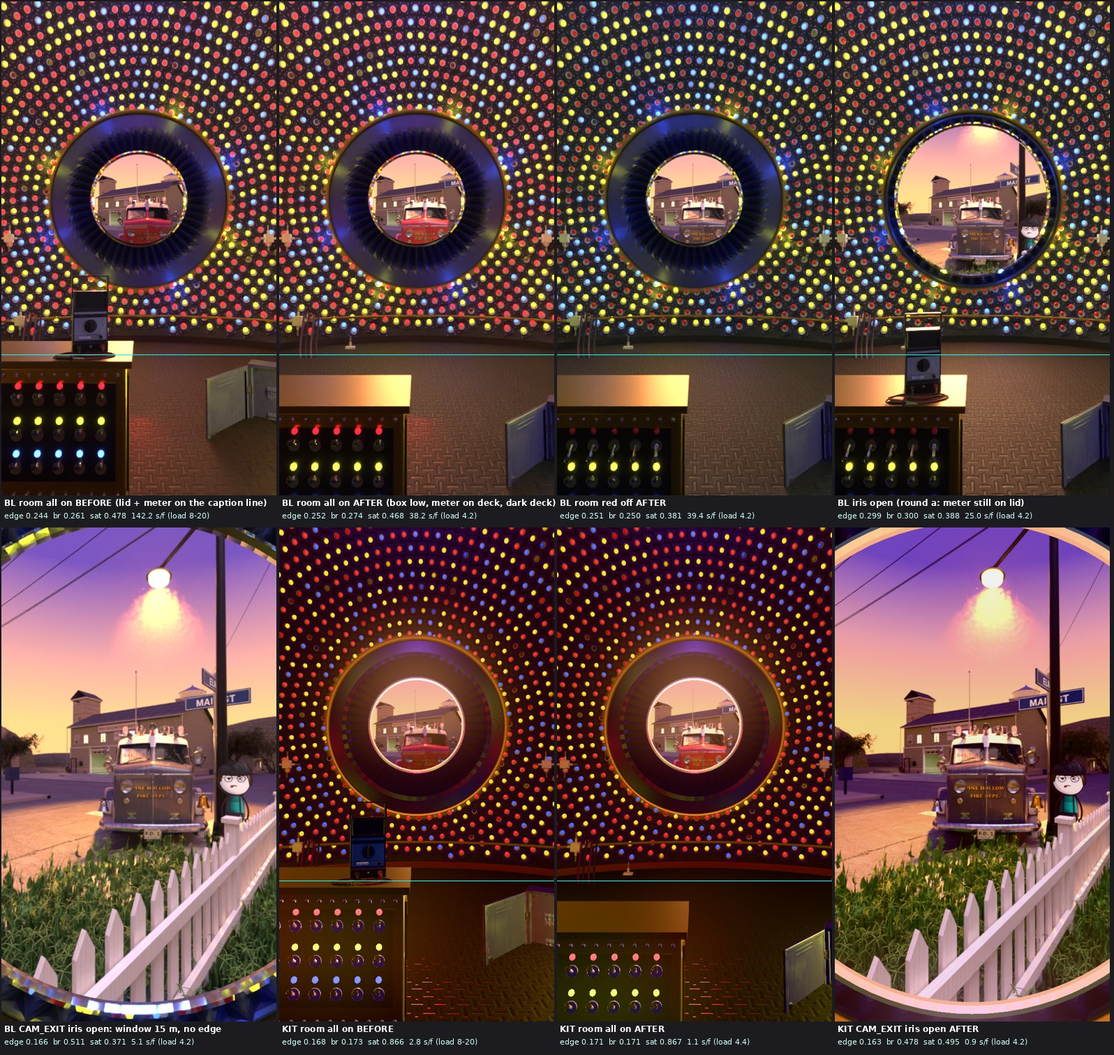
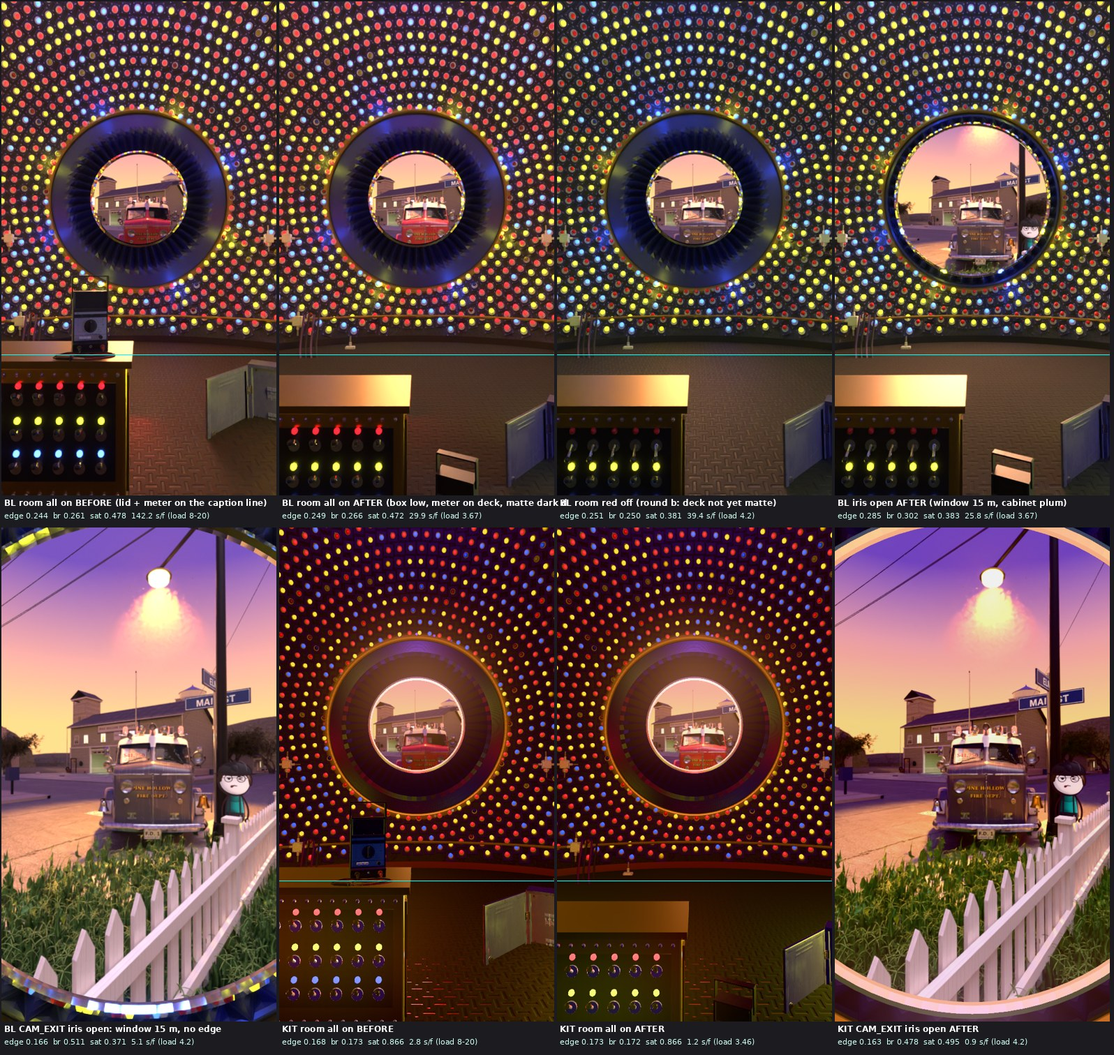
Yellow fire trucks: set fix round 2 (Dallas, town, lamp room, map), lessons
Claude-Session: https://claude.ai/code/session_01DrjR3Ltb34YxYG9MboPX6s

diff --git a/episodes/yellow-fire-trucks/sets/map/scripts/tex_map.py b/episodes/yellow-fire-trucks/sets/map/scripts/tex_map.py
@@ -13,9 +13,9 @@ SERIF = '/usr/share/fonts/truetype/liberation/LiberationSerif-Italic.ttf'; BOLD 
 STATES = G.load_states(os.path.join(A, 'us-atlas', 'states-10m.json'))
 PAPER = Image.open(os.path.join(A, 'acg', 'Paper001', 'Paper001_2K-JPG_Color.jpg')).convert('L')
 # palette: no red, no yellow, no teal on a set (LOOK_BIBLE). Water cornflower-pale, land pastel 1970s tints, highways navy.
-CREAM = (241, 230, 204); WATER = (160, 196, 246); WATER_LINE = (140, 170, 222); GREYLAND = (226, 221, 207)
-# FIX 2: tints about twice as strong (Blender saturation measured 0.19-0.26 under the bleached noon; the floor is 0.30). Still no red, yellow or teal.
-TINTS = [(252, 200, 168), (200, 232, 170), (244, 190, 226), (246, 230, 186), (192, 214, 250), (246, 214, 166)]
+CREAM = (240, 226, 194); WATER = (138, 182, 246); WATER_LINE = (140, 170, 222); GREYLAND = (226, 221, 207)
+# FIX 2: tints about three times as strong (round b; round a x2 gave .22-.29) (Blender saturation measured 0.19-0.26 under the bleached noon; the floor is 0.30). Still no red, yellow or teal.
+TINTS = [(250, 178, 138), (178, 228, 140), (240, 164, 214), (246, 220, 158), (166, 198, 252), (246, 198, 136)]
 NAVY = (39, 54, 90); INK = (31, 35, 56); BROWN = (132, 86, 58); ROAD = (150, 138, 126); PLUM = (122, 104, 140); RIVER = (96, 136, 214); PENCIL = (88, 86, 92)
 COFFEE = (150, 104, 66)
 STATIONS = G.stations(); SNAMES = [s[0] for s in STATIONS]
@@ -264,12 +264,13 @@ for k in range(1, 12): dd.line([(0, k * 21), (256, k * 21)], fill=(196, 194, 188
 for k in range(5): dd.rectangle([18 + k * 46, 66, 50 + k * 46, 82], fill=(70, 86, 120), outline=(39, 54, 90), width=2)
 dd.rectangle([0, 0, 255, 255], outline=NAVY, width=7); dd.rectangle([0, 244, 255, 255], fill=(60, 58, 60)); dd.rectangle([110, 226, 146, 234], fill=(150, 150, 150))
 dr.save(os.path.join(OUT, 'door.png'))
-wl = Image.new('RGB', (512, 512), (234, 216, 172)); dw = ImageDraw.Draw(wl); r2 = random.Random(2)
+# FIX 2 round c: card walls warmer tan (234,216,172 -> 236,198,146) and roofs warm slate: the closes are mostly station (Blender saturation < .30)
+wl = Image.new('RGB', (512, 512), (236, 198, 146)); dw = ImageDraw.Draw(wl); r2 = random.Random(2)
 for j in range(32):
     for i in range(9):
-        x0 = i * 60 - (30 if j % 2 else 0); v = r2.randint(-10, 8); dw.rectangle([x0 + 2, j * 16 + 2, x0 + 58, j * 16 + 14], fill=(234 + v, 216 + v, 172 + v))
+        x0 = i * 60 - (30 if j % 2 else 0); v = r2.randint(-10, 8); dw.rectangle([x0 + 2, j * 16 + 2, x0 + 58, j * 16 + 14], fill=(236 + v, 198 + v, 146 + v))
 wl.filter(ImageFilter.GaussianBlur(.6)).save(os.path.join(OUT, 'wall.png'))
-rf = Image.fromarray((np.random.RandomState(9).rand(256, 256, 1) * 34 + np.array([150, 144, 132])).clip(0, 255).astype(np.uint8)); rf.save(os.path.join(OUT, 'roof.png'))
+rf = Image.fromarray((np.random.RandomState(9).rand(256, 256, 1) * 34 + np.array([150, 128, 108])).clip(0, 255).astype(np.uint8)); rf.save(os.path.join(OUT, 'roof.png'))
 json.dump(dict(insets=INS, cells=CELLS, stations=[[c, round(x, 3), round(y, 3)] for c, x, y in STATIONS], cities={c: [round(v[0], 3), round(v[1], 3)] for c, v in CITYXY.items()}),
           open(os.path.join(OUT, 'tex_meta.json'), 'w'), indent=1)
 print('TEX_END')

diff --git a/episodes/yellow-fire-trucks/sets/map/scripts/bl_map_lite.py b/episodes/yellow-fire-trucks/sets/map/scripts/bl_map_lite.py
@@ -58,7 +58,13 @@ for o in ms: o.select_set(True)
 bpy.context.view_layer.objects.active = ms[0]
 for o in ms: o.matrix_world = o.matrix_world.copy()
 bpy.ops.object.parent_clear(type='CLEAR_KEEP_TRANSFORM'); bpy.ops.object.join(); j = bpy.context.object; j.name = 'tiny_truck'
-m = j.modifiers.new('dec', 'DECIMATE'); m.ratio = 4000 / max(1, tris(j.data)); bpy.ops.object.modifier_apply(modifier='dec')
+# FIX 2: assets_prod's truck_light grew (2026-11-21 02:15) and one COLLAPSE pass to 4000 tris shattered the tiny truck (kit bays showed shards).
+# Now: planar dissolve (4 deg) first, then a gentle collapse only above 6000 tris. Guard: TINY_DEC line in the log (before -> after).
+import math
+n0 = tris(j.data); m = j.modifiers.new('pl', 'DECIMATE'); m.decimate_type = 'DISSOLVE'; m.angle_limit = math.radians(4); bpy.ops.object.modifier_apply(modifier='pl')
+if tris(j.data) > 6000:
+    m = j.modifiers.new('dec', 'DECIMATE'); m.ratio = max(.05, 6000 / tris(j.data)); m.use_collapse_triangulate = True; bpy.ops.object.modifier_apply(modifier='dec')
+print('TINY_DEC', n0, '->', tris(j.data))
 for o in list(bpy.data.objects):
     if o != j: bpy.data.objects.remove(o)
 j.select_set(True)

diff --git a/episodes/yellow-fire-trucks/sets/lamproom/STATE.md b/episodes/yellow-fire-trucks/sets/lamproom/STATE.md
@@ -1,11 +1,10 @@
 # STATE: PLACE D, THE LAMP ROOM BEHIND THE EYE (set-builder, signature round 1, 2026-11-21). Sheet: LAMPROOM_SHEET.jpg (8 tiles, looked at).
 ## NOT done / still weak (seen in the sheet)
+- (round 1 items fixed in FIX 2 removed: caption band, cabinet tint, window size.)
 - No Rick frame in the repo (no refs/ for this film): no side-by-side, no close-up 90 % detail pair. Numbers only.
 - Window = a flat picture (town.blend rendered from the kerb, 640 px) 6 m behind the iris: parallax only from the iris/camera move; the exit flight needs the
   camera-director to blend into the real town park after exit_point. The toy in the hero's fist does not go grey (card art, cast dept).
 - Not checked in a moving clip: the wave timing (4 posed steps), the flicker, the iris ease. Single frames only.
-- Captions band (71.5 %) falls on the catwalk/relay-box top line, not on plain dark dome (lamps are bright everywhere above the deck).
-- Fuse cabinet (power_box_01) reads pale grey-green: the plum tint did not take (its base colour is not a direct texture link). Door open.
 - Kit: no environment map, so chrome/brass are softened (metalness cap); the kit room is darker and warmer than Blender; bulbs are coded spheres.
 - Air life not built (no dust motes, no mist pass); no sparks/clack on the lever drop (vfx, sound).
 - Blender preview time is high on this shared CPU: 35-142 s per 540x960 tile (load average 8-20 from other helpers).
@@ -26,16 +25,7 @@ Wave groups: red lamps by angle round the axis from top-left, clockwise as seen 
 Headlamp match: pumper headlamp glass (truck frame) centre x -3.50, y +-0.52, z 1.31, r 0.109 m. At CAM_ENTRY the entry ring fills 89 % of the frame width
 (r 0.445 of width, centred); the pupil there is r 0.103 of width. At CAM_ROOM the pupil centre is at 40 % from the top, r 0.164 (closed) / 0.271 (open) of width.
 ## Numbers (proof/numbers.json; 540x960; Blender Cycles CPU 16 spp + OIDN, Standard; kit second frame)
-| tile | s/frame | edge | colours (5-bit, >=20 px) | brightness |
-|---|---|---|---|---|
-| Blender all on | 142.2 | .244 | 1684 | .260 |
-| Blender wave 2 | 102.2 | .245 | 1635 | .246 |
-| Blender red off, truck grey | 95.2 | .245 | 1427 | .236 |
-| Blender iris open | 45.6 | .283 | 1692 | .289 |
-| Blender entry ring | 34.8 | .151 | 1107 | .239 |
-| kit all on / red off / entry | 2.8 / 1.3 / 3.0 | .168 / .165 / .101 | 1083 / 937 / 672 | .173 / .141 / .177 |
-Room tiles: edge above the 0.14 floor and Rick's ~0.087; brightness .24-.29 (LR is a dark room: no 0.31 dusk floor stated for LR; the lead decides).
-The truck in the window greys at wave >= 2 by default (grey param overrides).
+- Round 1 numbers: proof/numbers.json and LAMPROOM_SHEET.jpg (Blender 35-142 s/tile at load 8-20); FIX 2 numbers below and proof/fix2/numbers.json.
 ## LECONS (LECONS format; the lead copies into LECONS_TECHNIQUES.md)
 - 2026-11-21 A sed appended a '#' comment in the middle of the iris line and ate `iris.data.materials.append(chrome)`. Cause: REGLES 4 trap again. Fix: comment on its
   own line. Guard: `grep -n "; *#" scripts/*.py` before every render (it caught this one). Proof: the chrome lip shows in bl_irisopen.png. FERMÉ
@@ -52,3 +42,15 @@ The truck in the window greys at wave >= 2 by default (grey param overrides).
 - Camera-director: entry = push into the headlamp until its glass is 89 % of frame width, blend to CAM_ENTRY, fly forward through the ring to CAM_ROOM, exit
   forward past exit_point and blend to the park. Lead: OK that the match is headlamp rim -> entry ring (the pupil is small inside it at that moment).
 - VFX/sound: spark + relay clack per wave step. Cast: grey state of the toy in the hero card. Background-painter: nothing (no sky in this set).
+## FIX 2 (2026-11-21) - sheet FIX2_SHEET.jpg (8 tiles, cyan = caption line 71.5 %), numbers proof/fix2/numbers.json; runs fix2_run.sh (+ round c by hand, same steps)
+- NOT done: the caption band is plain and darker but not BLACK (Blender band mean .184, std .047; kit .081 / .031); the meter left the lid and now stands small
+  on the deck east of the box (reads as a dark box); red-off tile is round b (deck not yet matte). Window picture is a flat plane still (no parallax).
+  Not checked in a moving clip: the S6 travel CAM_ROOM -> (0, 6.6, .15) frame by frame (CAM_EXIT at y 3.0 = the worst point by the maths: no edge).
+- Done, seen: 1 caption band: relay box legs .26 -> .02 (lid line ~75 %), meter moved to the deck, deck tint #1d1a24 matte (rough x1.8, metal 0; metal .6
+  mirrored the lamps), cabinet scale 2.2 -> 1.8 and nearer (top below the line). Band 68-75 %: mean .250 -> .184, std .198 -> .047 (Blender).
+  2 window plane 9 -> 15 m; bl_window lens 28 -> 16.8 (= 28 x 9/15) at 1068 px, so the middle 9 m is the same view: CAM_EXIT shows no edge (tile 5, 8).
+  3 cabinet tint now takes (log CABINET_TINT linked power_box_01): the BSDF is found by type. Anchors and cams unchanged; relay_box anchor z follows the box.
+## FIX 2 LECONS (LECONS format, short)
+- 2026-11-21 Cabinet tint never took: nodes.get('Principled BSDF') was None on the glTF material. Fix: find by type, log CABINET_TINT. Guard: the log line. Proof: tile 4. FERME
+- 2026-11-21 Darker deck tint changed nothing: metal .6 mirrored the lamps. Fix: metal 0, rough x1.8. Guard: check metal first. Proof: band std .198 -> .047. FERME
+- 2026-11-21 Window images are stored 'out/window_*.png' relative to the CWD: Blender must run from sets/lamproom. Guard: IMGPATHS print. OUVERT (pack for RunPod).

diff --git a/episodes/yellow-fire-trucks/sets/dallas/STATE.md b/episodes/yellow-fire-trucks/sets/dallas/STATE.md
@@ -1,13 +1,8 @@
 # STATE: PLACE B, DALLAS FIRE DEPT. STATION 14 yard, hot noon (set-builder, round 1, 2026-11-21). Sheet: DALLAS_SHEET.jpg (8 tiles, looked at).
 ## NOT done / still wrong (seen in the sheet)
+- (round 1 items fixed in FIX 2 removed: UP TO 3x/ladder, far layer, apron, sign, still switch. See FIX 2 below.)
 - No Rick frame in the repo: no side-by-side, no 90 % close-up detail check per object. Numbers only against the 11i floor.
-- UP TO 3x is NOT readable in the wide and boards views: the sectioned ladder leans over the middle of the red stack and covers it (and the RED head in the wide).
-  Fix next round: ladder to the stack's left edge (LF x - .45) or the chalk words on the right half. Row 34 (CLOSE on UP TO 3x) needs its own camera check.
-- Far layer does not show: water tank (30,165), derrick (-42,240) and the skyline sit outside or behind the wide frame (or melt into the sky): no camera proves them yet.
-- The apron reads warm sandy, not pale grey concrete (yard tint #d9d3c5 under a #fff3d0 sun); big empty apron foreground in the wide (edge .159/.148).
-- DALLAS FIRE DEPT. on the front band is half hidden by the red stack from the wide (boards stand centred in front of the bay pier). Readable from the side views.
 - boards tile edge .137 (Blender) / .124 (kit): mostly sky (not a gate tile, below .14). Station walls are still plain stucco between the pilasters.
-- World micro motion (halyard, grass, pump jacks, leaves) and air life NOT rigged (list in ../dallas_DRESSING.md); no place.still switch in dallas.js yet (STORY says so).
 - Plasters on the trucks (props-hero anchors) not placed; painters' cans/ladders not looked at in a tile (painters camera not rendered). No phone-size check written.
 - Kit seconds per frame are not trustworthy this round: load average 14 on 4 CPUs (other helpers); second frame 1.5-6.8 s, one negative value (-2.1).
 ## Built (files)
@@ -54,13 +49,8 @@
   all three read from the S5 and S7 cameras (cams s5, s7 in dallas_cams.json). DALLAS FIRE DEPT. is a roof sign (10.4 x 1.3 m, centre z 9.7) clear of the boards in S5.
   4 dallas.js still: true | [t0, t1] (frozen, no jump) over the new air life; update(f, t) returned. 5 boards.ground 0-4 (default 3 as before; gl4 by the red nose).
   Kit metals get a painted noon env (ladder read black). Anchors: all 28 old names kept; MOVED (needed by the fix): sign_front, water_tank, derrick, far_skyline.
-| tile | edge | bright | sat | s/f (load) |
-|---|---|---|---|---|
-| BL wide BEFORE | .159 | .779 | .238 | 95.6 (~14) |
-| BL S5 cam after | .296 | .666 | .159 | 15.5 (3.5) |
-| BL S7 cam after | .176 | .791 | .149 | 15.2 (3.5) |
-| BL boards before / after | .137 / .180 | .665 / .643 | .296 / .276 | 63.7 (~14) / 16.7 (3.1) |
-| KIT lite S5 / S7 / boards after | .294 / .182 / .168 | .548 / .690 / .559 | .325 / .231 / .391 | 3.3 / 3.1 / 3.1 (4.3) |
+- Numbers (edge / bright / sat / s per frame @ load): BL wide before .159/.779/.238/95.6@14; BL S5 .296/.666/.159/15.5@3.5; BL S7 .176/.791/.149/15.2@3.5;
+  BL boards .137->.180; KIT lite S5 .294/.548/.325/3.3@4.3, S7 .182/.690/.231/3.1, boards .168/.559/.391/3.1. Full list: proof/fix2/numbers.json.
 - For stretch builders: S5/S7 wrappers must call the returned update(f, t) for the air life; S7 passes still: [57.667, 58.467]; S5 row 34 may pass ladder: 'side'.
 ## FIX 2 LECONS (LECONS format)
 - 2026-11-21 The far landmarks (tank, derrick, skyline) were in the set but never in a frame. Cause: placed by plan only; from a 1.3 m camera 18 m from a 6.3 m

diff --git a/episodes/yellow-fire-trucks/sets/map/STATE.md b/episodes/yellow-fire-trucks/sets/map/STATE.md
@@ -38,3 +38,20 @@ Kit: 615,888 tris (241 k set + 94 x 4 k trucks), 600 meshes, load 1.5-2.4 s. Kit
 - Lead: Pine Hollow is placed in the Ozarks (lon -91.55, lat 36.3, north Arkansas / south Missouri line): OK or move it (map_geo.CITIES). Saturation fix wanted? (stronger tints).
 - Effects: lime mist row 24, glint wave row 25, heat shimmer on the sand (row 28). Background painter: nothing (indoor table; the sky is only seen past the table edge in lows).
 - Stretch builder: the S3->S4 join needs the town to cross-fade to the printed plan at Pine Hollow (anchors pine_hollow_station; the plan's MAIN ST runs E-W through the dot).
+## FIX 2 (2026-11-21) - sheet FIX2_SHEET.jpg (8 tiles, looked at), numbers proof/fix2/numbers.json; run fix2_run.sh (3 rounds a/b/c; build -> out_tmp/, renamed)
+- NOT done: Blender saturation station_open .263 (< .30): a third of that frame is the grey-blue world sky (LOOK, lead); the others pass (wide .319, dallas .329,
+  pine_sink .321, cities_field .325; before .186-.258). Field stations are all one model without signs; the S4 builder must call add_field / places.field.
+  WARNING to S4: between 02:33 and 02:39 out/map_truck_tiny.glb was a shattered truck (see LECONS); a kit render of S4 made in that window must be redone.
+- Done, seen: 1 print tints about x3 (state tints, water, paper cream), card walls warm tan, roofs warm slate. 2 dense pop-up field: make_field.py -> out/map_field.json
+  (260 small stations, scale .5-.68, on land, >= .62 m apart, >= .8 m from a city); kit places.<name>.field: true | n (instanced: station parts, doors with the
+  wave, tiny lime trucks with the paint wave), Blender MA.add_field(scene) (linked copies, map_station 'FIELD', driven by set_doors / set_paint). Camera
+  counts (projection, 9:16, lens on 36 mm tall): S4 B as planned (3.45,-.3,.78)->(2.85,1.9,.05) 24 mm: 4 city stations -> 26 with the field (table edge shows at the
+  top); (3.0,-.3,4.0)->(2.85,1.9,.05) 24 mm: 35, no table edge (proof cam cities_field). No camera shows more than 14 without the field.
+  3 kit metals get a painted studio env map (brass compass reads brass, tile 7). 4 map.js setStation(i | 'CITY', { paint, door }) + stations(); setStation(i, null) clears.
+- Kit cost with field: +260 x (station + 2 doors + 2 trucks of 6,000 tris): 4.6 s/f at load 3.3 (cities_field).
+## FIX 2 LECONS (LECONS format)
+- 2026-11-21 The rebuilt tiny truck came out in shards (kit bays). Cause: assets_prod truck_light grew to 37,236 tris (02:15) and one COLLAPSE decimate to 4,000
+  tore it. Fix: bl_map_lite planar dissolve 4 deg, then collapse only above 6,000 (37,236 -> 6,000). Guard: TINY_DEC line in logs/fix2_lite.log; look at a kit
+  close after any assets_prod change. Proof: FIX2_SHEET tile 7 (kit dallas: whole lime trucks). FERME
+- 2026-11-21 Doubling pastel tints only moved Blender saturation .19 -> .25. Cause: the closes are mostly cream station walls and grey sky, not print. Fix: tints x3
+  + warm card walls. Guard: measure saturation per tile (fix2_sheet.py). Proof: 4 of 5 tiles >= .30. FERME for the set; station_open OUVERT (sky, lead).
